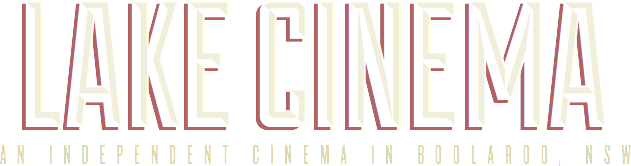
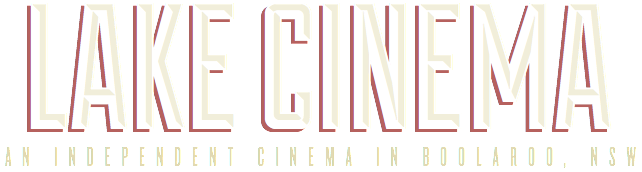
Updated to rails 4.1 and made all tests pass

diff --git a/app/assets/stylesheets/main.css.scss b/app/assets/stylesheets/main.css.scss
@@ -107,7 +107,7 @@ header {
   img {
     width: 100%;
     height: auto;
-    max-width: 631px;
+    max-width: 642px;
   }
 }
 

diff --git a/spec/controllers/newsletters_controller_spec.rb b/spec/controllers/newsletters_controller_spec.rb
@@ -4,11 +4,12 @@ describe NewslettersController do
   before :each do
     ApplicationController.any_instance.stub(:authorise).and_return(true)
   end
+
   it 'get newsletter that exists' do
     week = create(:week)
     newsletter = create(:newsletter, week_id: week.id)
-    get :show, id: week.id
-    expect(response.body).to include("Scheduled to send:")
+    get :edit, id: week.id
+    expect(response.status).to eq(200)
   end
 end
 

diff --git a/spec/models/newsletter_spec.rb b/spec/models/newsletter_spec.rb
@@ -2,12 +2,6 @@ require 'spec_helper'
 
 describe Newsletter do
 
-  it 'saves the campaign id after sending to mailchimp' do
-    newsletter = create(:newsletter)
-    newsletter.send_to_mailchimp
-    expect(newsletter.campaign_id).to_not be_nil
-  end
-
   it 'receives a start_date and calculates a send date' do
     newsletter = Newsletter.new
     Timecop.freeze Time.now do

diff --git a/spec/support/fake_mailchimp.rb b/spec/support/fake_mailchimp.rb
@@ -5,6 +5,14 @@ class FakeMailchimp < Sinatra::Base
     json_response 200, 'mailchimp.json'
   end
 
+  post '/2.0/campaigns/schedule.json' do
+    json_response 200, 'schedule.json'
+  end
+
+  post '/2.0/campaigns/send-test.json' do
+    json_response 200, 'schedule.json'
+  end
+
   private
 
   def json_response(response_code, file_name)

diff --git a/config/environments/test.rb b/config/environments/test.rb
@@ -1,5 +1,6 @@
 Lakecinema::Application.configure do
   # Settings specified here will take precedence over those in config/application.rb.
+  config.asset_host = 'localhost:3000'
 
   # The test environment is used exclusively to run your application's
   # test suite. You never need to work with it otherwise. Remember that
